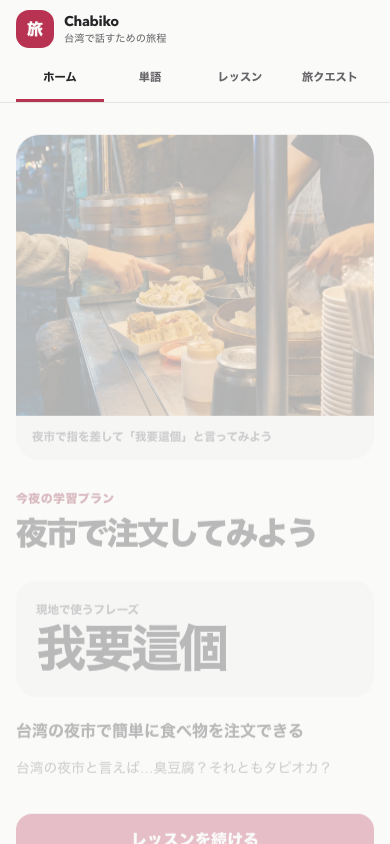
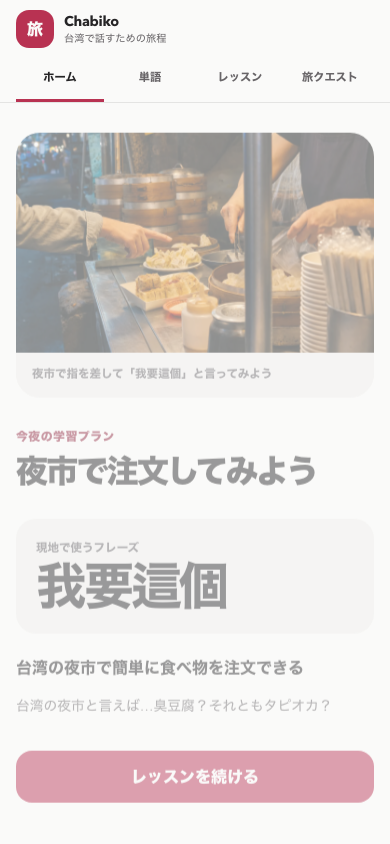
Fix Airbnb home viewport framing

diff --git a/docs/design/evidence/design-lab/README.md b/docs/design/evidence/design-lab/README.md
@@ -38,9 +38,10 @@ origin.
 - The 2026-08-24 run produced all 24 files with no browser, image, overflow, or
   external-request errors.
 
-Task 4 follow-up: the Airbnb Home control labelled `レッスンを続ける` intersects
-the bottom boundary of the 390 x 844 viewport. This evidence task records the
-finding and does not modify the grammar component.
+Task 4 final framing pass: Airbnb Home was revalidated at 320, 375, 390, and
+430 x 844. The `レッスンを続ける` control is fully contained at each width, and
+the final individual and comparison Home captures retain the photo-led
+itinerary orientation.
 
 ## Fixed manifest
 
